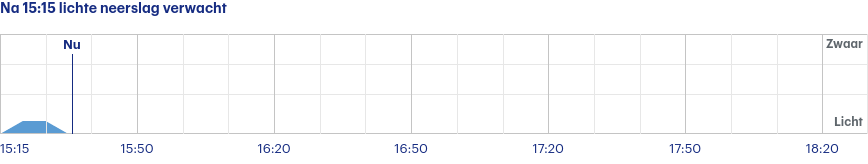
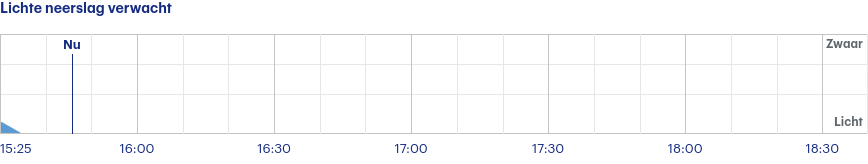
Latest scraping buienradar: Thu Jul 20 13:41:35 UTC 2023

diff --git a/scrapes/buienradar/buienradar-jette-3-uur.md b/scrapes/buienradar/buienradar-jette-3-uur.md
@@ -1,4 +1,4 @@
-Na 15:15 lichte neerslag verwacht
+Lichte neerslag verwacht
 
 ![](buienradar-jette-3-uur.png)
 
